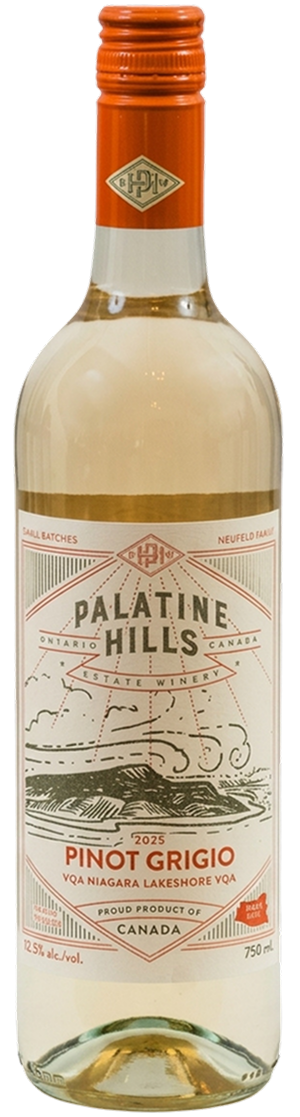
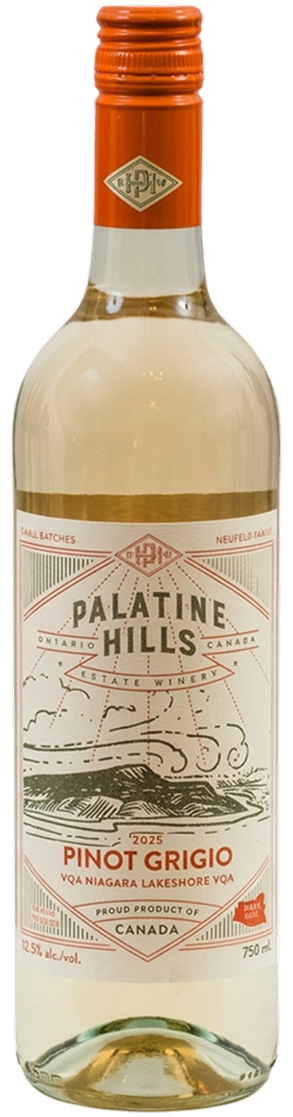
Bottle cutouts trimmed to the bottle; add prepare_cutouts.py (check and auto-repair cutouts)

diff --git a/scripts/prepare_cutouts.py b/scripts/prepare_cutouts.py
@@ -1,0 +1,178 @@
+#!/usr/bin/env python3
+"""
+prepare_cutouts.py: check every bottle cutout in a folder, and with --fix repair what can be repaired,
+so the emails only ever receive finished bottle shots. No human step.
+
+Usage:
+    python3 prepare_cutouts.py <winery-slug>/bottle-shots            # report only
+    python3 prepare_cutouts.py <winery-slug>/bottle-shots --fix      # repair in place, then re-check
+
+What it checks, per PNG:
+  alpha        real transparency exists and the four corners are transparent
+  backdrop     no opaque studio or white backdrop left behind (flood-filled away on --fix)
+  halo         the bottle's outer edge is not ringed with near-white pixels (softened on --fix)
+  margin       the canvas hugs the bottle (cropped to the bottle plus 1 percent on --fix); a 1200x1500
+               frame around a 400px bottle is what squeezed bottles in the emails
+  proportions  height divided by width is a real bottle's (2.6 to 5.2); outside that the shot is stretched or cut
+  resolution   the bottle is tall enough to look sharp at email size (700px or more)
+  clipped      the bottle does not touch the canvas edge
+
+Exit code 0 when every file passes after any repair, 1 otherwise (the failing files are listed with the reason).
+A file that cannot be repaired (low resolution, stretched, clipped) goes back to wcc-email-source-winery to be re-sourced.
+"""
+import argparse
+import sys
+from pathlib import Path
+
+import numpy as np
+from PIL import Image, ImageDraw, ImageFilter
+
+MIN_H = 700
+ASPECT = (2.6, 5.2)
+PAD = 0.01
+
+
+def alpha_bbox(a, thr=20):
+    ys, xs = np.where(a > thr)
+    if not len(xs):
+        return None
+    return xs.min(), ys.min(), xs.max() + 1, ys.max() + 1
+
+
+def analyze(im):
+    rgba = np.array(im.convert("RGBA"))
+    al = rgba[..., 3]
+    h, w = al.shape
+    out = {"size": im.size, "problems": []}
+    corners = [al[0, 0], al[0, w - 1], al[h - 1, 0], al[h - 1, w - 1]]
+    has_alpha = (al < 250).mean() > 0.02
+    if not has_alpha:
+        out["problems"].append("no transparency (opaque backdrop)")
+    elif max(corners) > 10:
+        out["problems"].append("opaque backdrop left at the corners")
+    bb = alpha_bbox(al)
+    if bb is None:
+        out["problems"].append("empty image")
+        return out
+    x0, y0, x1, y1 = bb
+    bw, bh = x1 - x0, y1 - y0
+    out["bbox"] = bb
+    out["bottle"] = (bw, bh)
+    if bh / bw < ASPECT[0] or bh / bw > ASPECT[1]:
+        out["problems"].append(f"proportions off (height/width {bh / bw:.2f}, a bottle is {ASPECT[0]} to {ASPECT[1]})")
+    if bh < MIN_H:
+        out["problems"].append(f"low resolution (bottle {bh}px tall, need {MIN_H}+)")
+    # clipped = the bottle is cut flat by the canvas edge. A rounded base that merely reaches the frame
+    # is fine, so measure how much of the bottle is cut at the edge row or column.
+    solid_px = al > 128
+    cut = []
+    if y0 <= 1 and solid_px[0].sum() > 0.5 * bw:
+        cut.append("top")
+    if y1 >= h - 1 and solid_px[h - 1].sum() > 0.5 * bw:
+        cut.append("bottom")
+    if x0 <= 1 and solid_px[:, 0].sum() > 0.5 * bh:
+        cut.append("left")
+    if x1 >= w - 1 and solid_px[:, w - 1].sum() > 0.5 * bh:
+        cut.append("right")
+    if cut:
+        out["problems"].append("bottle is cut off at the canvas " + "/".join(cut) + " (clipped)")
+    pad_x, pad_y = (w - bw) / w, (h - bh) / h
+    if pad_x > 0.10 or pad_y > 0.10:
+        out["problems"].append(f"loose canvas ({pad_x:.0%} wide, {pad_y:.0%} tall of empty space)")
+    # halo: near-white, low-saturation pixels in the 3px ring just inside the bottle edge
+    solid = al > 128
+    inner = np.array(Image.fromarray((solid * 255).astype("uint8")).filter(ImageFilter.MinFilter(7))) > 128
+    ring = solid & ~inner
+    if ring.any():
+        px = rgba[..., :3][ring].astype(int)
+        bright = (px.min(axis=1) > 225) & ((px.max(axis=1) - px.min(axis=1)) < 18)
+        out["halo"] = float(bright.mean())
+        if out["halo"] > 0.12:
+            out["problems"].append(f"white halo on the edge ({out['halo']:.0%} of edge pixels)")
+    return out
+
+
+def remove_backdrop(im):
+    """Flood-fill the backdrop colour away from the four corners."""
+    rgb = im.convert("RGB")
+    marker = (255, 0, 255)
+    work = rgb.copy()
+    w, h = work.size
+    for xy in [(0, 0), (w - 1, 0), (0, h - 1), (w - 1, h - 1)]:
+        ImageDraw.floodfill(work, xy, marker, thresh=30)
+    arr = np.array(work)
+    bg = (arr[..., 0] == 255) & (arr[..., 1] == 0) & (arr[..., 2] == 255)
+    rgba = np.array(im.convert("RGBA"))
+    rgba[..., 3] = np.where(bg, 0, rgba[..., 3])
+    return Image.fromarray(rgba)
+
+
+def soften_halo(im):
+    """Pull the alpha edge in one pixel and soften it, which drops the backdrop-coloured fringe."""
+    rgba = im.convert("RGBA")
+    a = rgba.getchannel("A")
+    a = a.filter(ImageFilter.MinFilter(3)).filter(ImageFilter.GaussianBlur(0.8))
+    rgba.putalpha(a)
+    return rgba
+
+
+def trim(im):
+    bb = alpha_bbox(np.array(im.convert("RGBA"))[..., 3], thr=8)
+    if not bb:
+        return im
+    x0, y0, x1, y1 = bb
+    pad = max(4, int(PAD * max(x1 - x0, y1 - y0)))
+    return im.crop((max(0, x0 - pad), max(0, y0 - pad), min(im.width, x1 + pad), min(im.height, y1 + pad)))
+
+
+def repair(path):
+    im = Image.open(path)
+    info = analyze(im)
+    steps = []
+    if any("backdrop" in p or "no transparency" in p for p in info["problems"]):
+        im = remove_backdrop(im)
+        steps.append("removed backdrop")
+        info = analyze(im)
+    if any("halo" in p for p in info["problems"]):
+        passes = 0
+        while passes < 6 and analyze(im).get("halo", 0) > 0.12:
+            im = soften_halo(im)
+            passes += 1
+        steps.append(f"softened halo ({passes} pass{'es' if passes != 1 else ''})")
+    trimmed = trim(im)
+    if trimmed.size != im.size:
+        steps.append(f"trimmed {im.size[0]}x{im.size[1]} to {trimmed.size[0]}x{trimmed.size[1]}")
+    im = trimmed
+    return im, steps
+
+
+def main():
+    ap = argparse.ArgumentParser()
+    ap.add_argument("folder")
+    ap.add_argument("--fix", action="store_true")
+    a = ap.parse_args()
+    files = sorted(Path(a.folder).glob("*.png"))
+    if not files:
+        print("no PNG files found"); sys.exit(2)
+    failed = []
+    for f in files:
+        steps = []
+        if a.fix:
+            im, steps = repair(f)
+            if steps:
+                im.save(f, optimize=True)
+        info = analyze(Image.open(f))
+        status = "PASS" if not info["problems"] else "FAIL"
+        extra = f" (fixed: {'; '.join(steps)})" if steps else ""
+        bottle = f" bottle {info['bottle'][0]}x{info['bottle'][1]}" if "bottle" in info else ""
+        print(f"{status}  {f.name}  {info['size'][0]}x{info['size'][1]}{bottle}{extra}")
+        for p in info["problems"]:
+            print(f"      - {p}")
+        if info["problems"]:
+            failed.append(f.name)
+    print(f"{len(files) - len(failed)} of {len(files)} cutouts pass")
+    sys.exit(1 if failed else 0)
+
+
+if __name__ == "__main__":
+    main()
